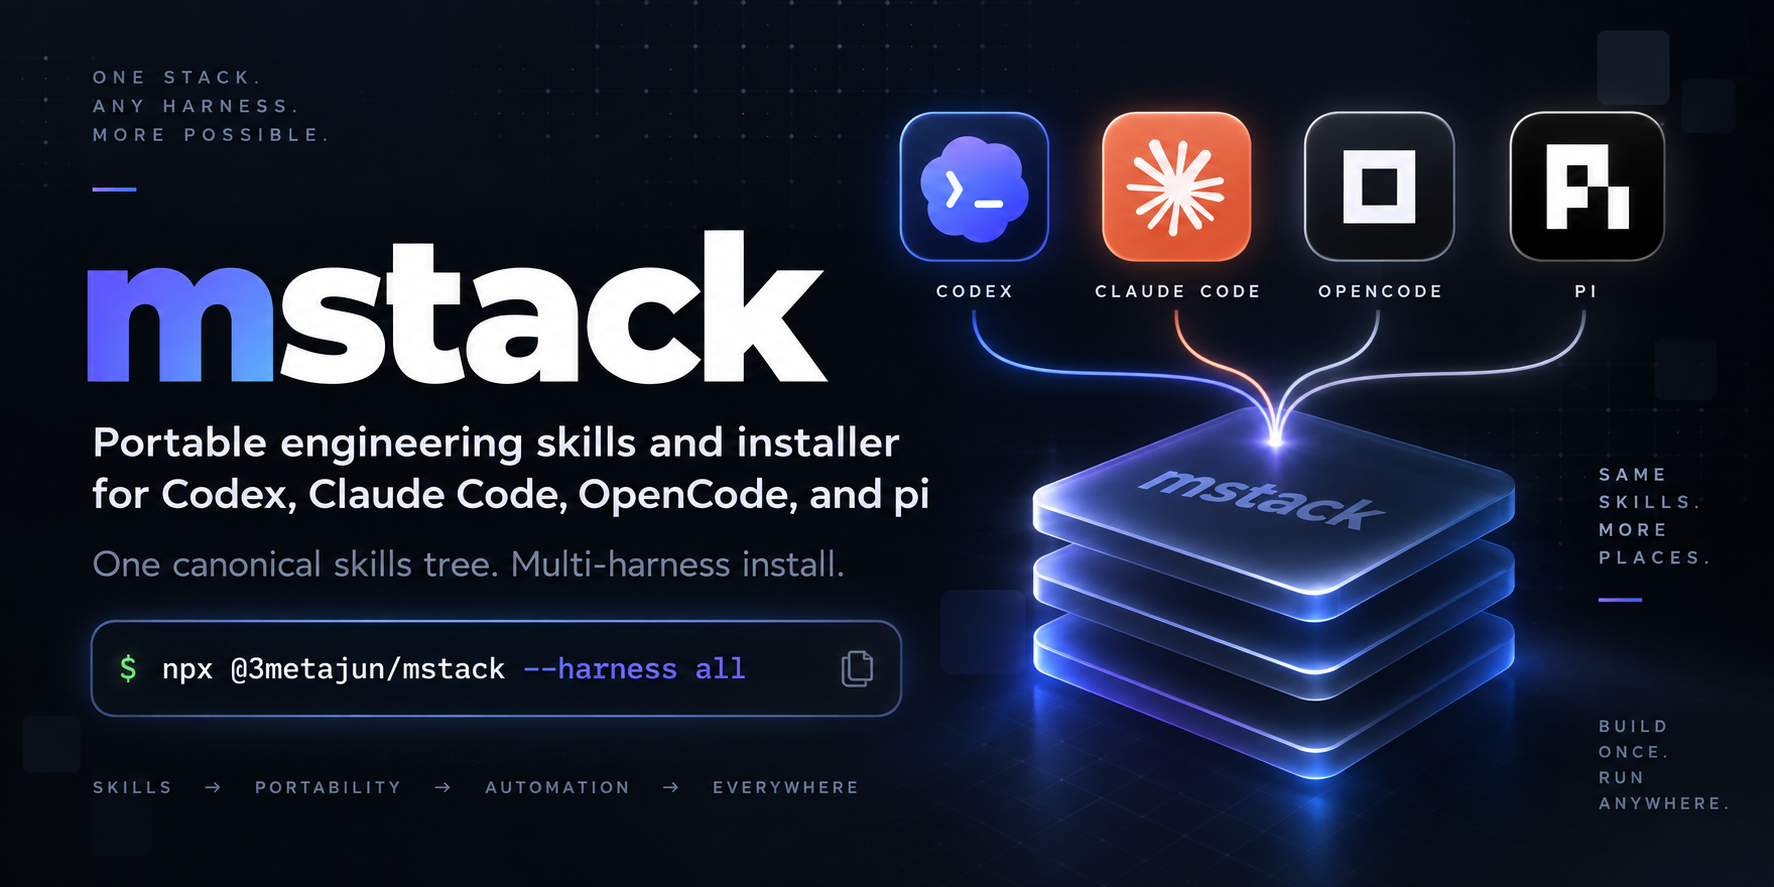
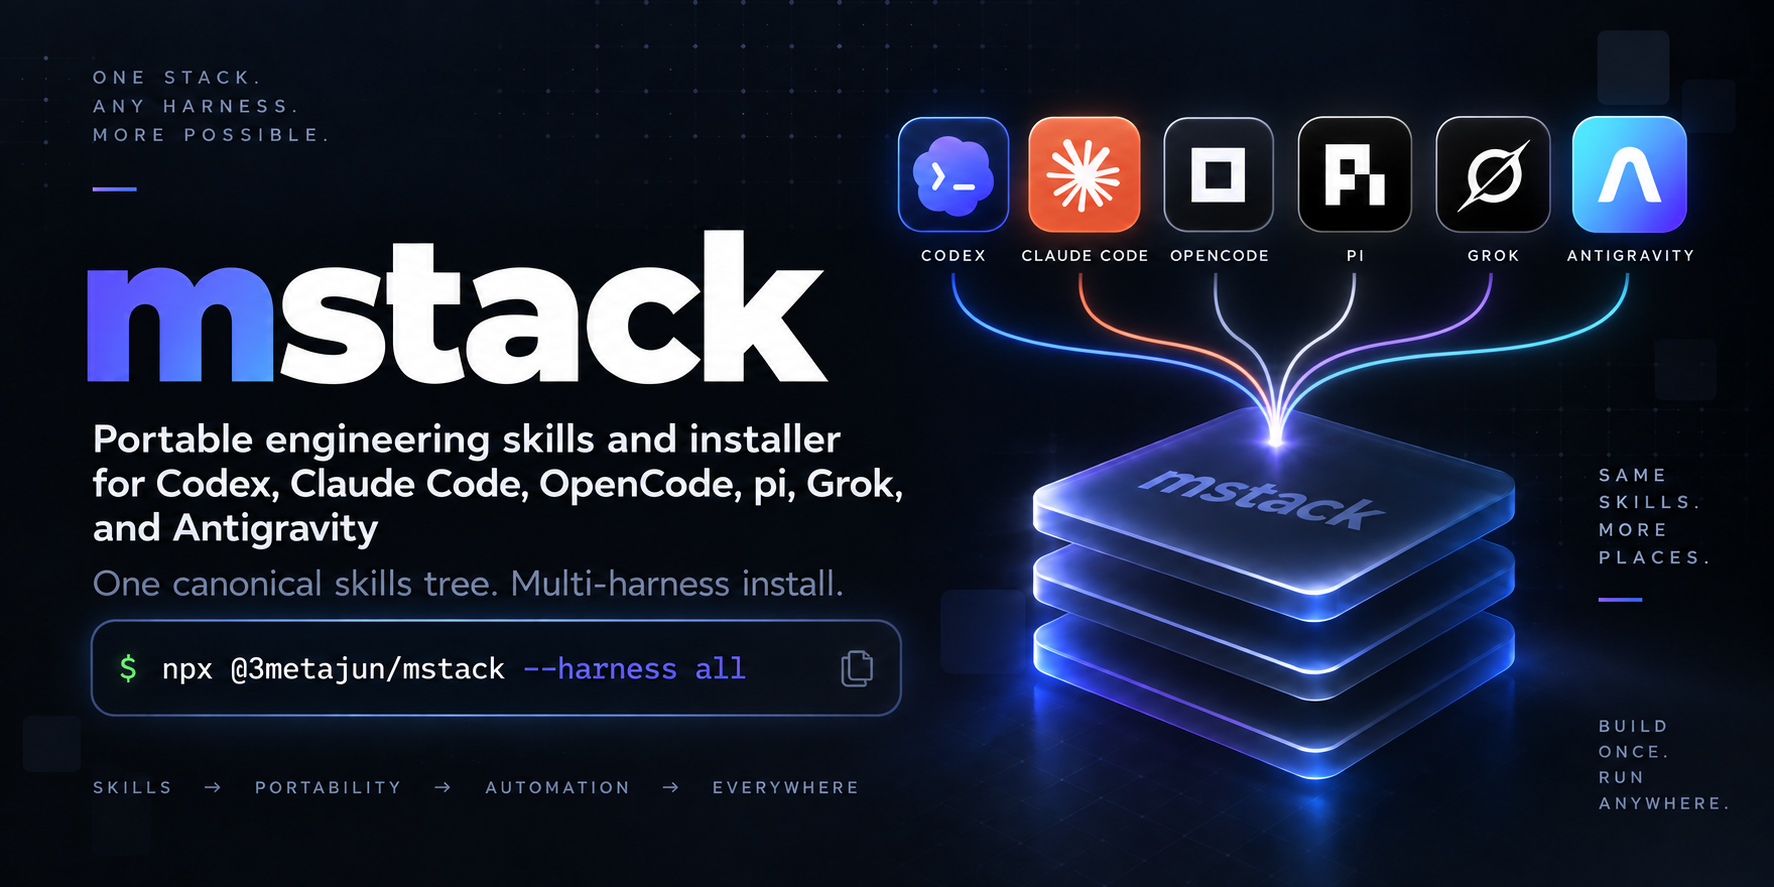
docs: cover Grok and Antigravity in the README and social preview (#43)
* docs: cover Grok and Antigravity in the README and social preview

* docs: rewrap the README introduction

* docs: rewrap the adapter reference paragraph

---------

diff --git a/README.md b/README.md
@@ -4,11 +4,13 @@
 [![npm version](https://img.shields.io/npm/v/%403metajun%2Fmstack?logo=npm&logoColor=white)](https://www.npmjs.com/package/@3metajun/mstack)
 
 mstack packages portable engineering skills for Codex, Claude Code, OpenCode,
-and pi. One canonical `skills/` tree feeds every supported harness. The
-installer adapts harness metadata at install time, so skill instructions do not
-contain harness-specific paths or commands.
+pi, Grok, and Antigravity. One canonical `skills/` tree feeds every supported
+harness. Cursor reads the shared `~/.agents/skills` copy, and T3 Code lists
+the skills its providers discover. The installer adapts harness metadata at
+install time, so skill instructions do not contain harness-specific paths or
+commands.
 
-![mstack portable engineering skills across Codex, Claude Code, OpenCode, and pi](https://raw.githubusercontent.com/3metaJun/mstack/main/.github/assets/social-preview.png)
+![mstack portable engineering skills across Codex, Claude Code, OpenCode, pi, Grok, and Antigravity](https://raw.githubusercontent.com/3metaJun/mstack/main/.github/assets/social-preview.png)
 
 The collection started with selected workflows from
 [`pstack`](https://github.com/cursor/plugins/tree/main/pstack/skills) and

diff --git a/docs/harness-adapters.md b/docs/harness-adapters.md
@@ -150,9 +150,10 @@ uses the metadata to validate the shared target.
 both `.cursor/skills/` and `.agents/skills/` as project discovery locations.
 For a project configured for Codex and Cursor or Grok Bot, generate one neutral
 `verify-<app>` wrapper in `.agents/skills/`. A project using only Cursor or Grok
-Bot places it in `.cursor/skills/`. Claude Code, OpenCode, and pi use the project
-roots in the table above. These wrappers contain the same capability-neutral
-instructions, with no duplicate maps or host-specific driver commands.
+Bot places it in `.cursor/skills/`. Claude Code, OpenCode, pi, the Grok CLI, and
+Antigravity use the project roots in the table above. These wrappers contain the
+same capability-neutral instructions, with no duplicate maps or host-specific
+driver commands.
 
 `compatibility` text is not a reliable discovery filter. Two wrappers with
 different app instructions remain conflicting definitions even if one says
